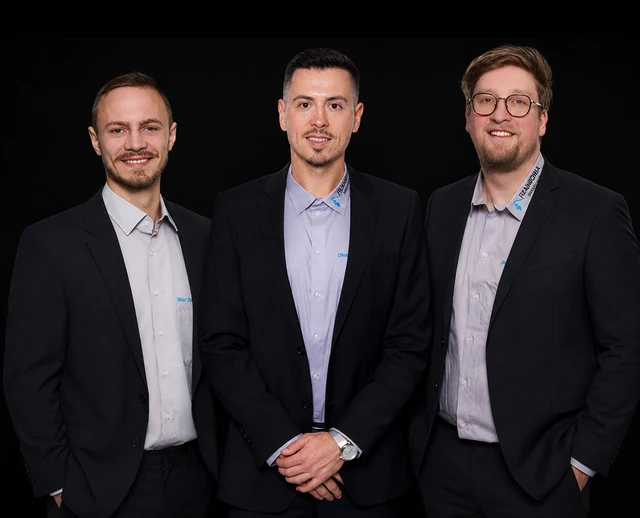
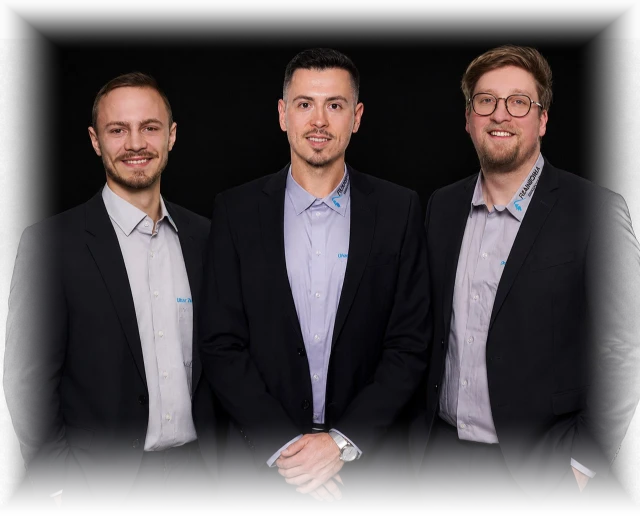
Ueber uns: Steffen freigestellt, Team-Reihe der fuenf Fuehrungskraefte, Kasten um das Hero-Foto weg
Der Kunde sah Kaesten um beide Fotos. Er hatte recht, und meine fruehere
Diagnose war falsch: ich hatte gemessen, dass die SEITENKANTEN um 0,0 Stufen
springen, und daraus geschlossen, es sei nichts zu sehen. Sichtbar ist aber
der hellere Hintergrund INNERHALB des Rechtecks — im Vorher/Nachher-Vergleich
sofort erkennbar.

STEFFEN: neues Foto aus dem Werkschutz-Shooting (ganze Figur auf WEISSEM
Grund), echt freigestellt statt Hintergrund auf #010101 normalisiert. Der
alte Weg haelt nur, solange die Sektion schwarz bleibt.
Verfahren: Randkonnektivitaet (ein blosser Schwellwert frisst das helle
Hemd), weiche Kante NUR im 2px-Saum (erster Versuch liess den Verlauf ueber
die Helligkeit laufen — 2,47 Mio Hintergrundpixel bekamen Teilalpha und
haetten als grauer Schleier gestanden), plus Matting gegen den Weisssaum.
Gegengeprueft auf MAGENTA, weil Loecher im dunklen Haar auf Schwarz
unsichtbar waeren: keine.
Der Verlauf nach unten bleibt in der GETEILTEN CSS-Regel, nicht im Bild —
zwei Rampen fuer dieselbe Aufgabe laufen auseinander.

TEAM-HERO: ein echter Freisteller ist dort nicht moeglich (Anzuege haben
dieselbe Helligkeit wie der Hintergrund, gemessen). Also loest die KANTE
sich auf statt das Motiv: seitlich und oben faellt Alpha nur dort, wo der
Pixel dunkel ist — ein aufgehellter Kragen bleibt, der Hintergrund geht.
Unten bedingungsloser Verlauf.

FUEHRUNGSKRAEFTE: fuenf Freisteller aus den eigenen Studio-Shootings der
[…]

diff --git a/pages/ueber-uns.html b/pages/ueber-uns.html
@@ -308,14 +308,20 @@
              got its own photo on 2026-08-14, so the two are now one treatment).
              Black backdrop, so the frame carries no radius/border/tint — see
              .uu-lead__photo.
-             ⚠ CORRECTION 2026-08-14: this comment used to claim the backdrop was
-             "0,0,0 … matching --color-bg exactly". The first half was right and the
-             conclusion was NOT — --color-bg is #010101, i.e. 1, so the photo sat one
-             level BELOW the page it was supposed to match, and the bottom fade
-             below ramped to a colour the photo never reached. Re-exported with the
-             backdrop normalised to #010101 literally
-             (docs/design-sources/portrait-key-backdrop.py, same pass as Jäger's).
-             Measured across the seam afterwards: page 1, photo 1, delta 0.00.
+             ⚠ 05.09.2026 — NEUES FOTO UND ECHTE TRANSPARENZ. Der Kunde sah
+             einen Kasten um dieses Bild ("da gibt es keinen Diskussionsbedarf"),
+             und er hatte recht: die alte Fassung hatte den Hintergrund nur auf
+             #010101 NORMALISIERT, also ein deckendes Rechteck in Seitenfarbe.
+             Das haelt genau so lange, wie die Sektion schwarz bleibt.
+             Jetzt ein echter Freisteller aus der Studioaufnahme auf WEISSEM Grund
+             (Werkschutz-Shooting 2023, ganze Figur) — Randkonnektivitaet, damit
+             das helle Hemd nicht mitgekeyt wird, weiche Kante nur im 2px-Saum,
+             und die Matting-Gleichung gegen den Weisssaum. Gegengeprueft auf
+             MAGENTA, weil Loecher im dunklen Haar auf Schwarz unsichtbar waeren.
+             ⚠ Der Verlauf nach unten wird NICHT ins Bild gebrannt — den macht
+             .uu-lead__photo::after in page-service.css, geteilt mit Jaegers
+             Portrait. Zwei Rampen fuer dieselbe Aufgabe laufen auseinander; ein
+             erster Versuch hatte beide und der Anzug verschwand zu frueh.
              Enlarged same day (22rem → 30rem cap); re-exported at 480/960w so
              a 2x screen at the new cap still gets a sharp source. -->
         <div class="uu-lead__photo" data-reveal>
@@ -325,6 +331,71 @@
           </picture>
         </div>
       </div>
+
+        <!-- ============ Führungsmannschaft (Kunde 05.09.2026) ============
+             "darunter alle Führungskräfte … Christoph, Alex, Brian, Daniel,
+             also alle die, die eine gültige Visitenkarte haben".
+
+             ⚠ Bewusst INNERHALB von .uu-lead und nicht als eigene Sektion:
+             zwischen Führung und Versprechen liegt ein GLOW-SEAM, der als
+             Hintergrundverlauf auf den beiden zugewandten Kanten sitzt
+             (siehe page-ueber-uns.css). Eine Sektion dazwischen würde dieses
+             Paar auseinanderreißen. Inhaltlich passt es ohnehin hierher:
+             oben steht, wer FRANKONIA führt, hier steht der Rest der Führung.
+
+             ⚠ Die fünf sind NICHT auf ihre Visitenkarten-Seiten verlinkt.
+             Die tragen robots="noindex,follow" und stehen nicht im Sitemap —
+             das sind QR-Karten, keine Unterseiten. Ob sie öffentlich verlinkt
+             werden sollen, ist eine Entscheidung des Kunden, keine Bautechnik.
+
+             Rollen wörtlich aus den Visitenkarten-Seiten übernommen.
+             ⚠ Die Überschrift ist für diesen Bau geschrieben, sie steht in
+             keinem Webtext — bitte von Chris bestätigen lassen. -->
+        <div class="uu-team">
+          <h3 class="uu-team__title">Unsere Führungskräfte</h3>
+          <ul class="uu-team__list" data-item-reveal="li">
+            <li class="uu-team__item">
+              <picture>
+                <source type="image/webp" srcset="/assets/images/uu-team-steffen-walde-280.webp 280w, /assets/images/uu-team-steffen-walde-560.webp 560w" sizes="(min-width: 1100px) 13rem, (min-width: 640px) 22vw, 40vw">
+                <img class="uu-team__foto" src="/assets/images/uu-team-steffen-walde-560.jpg" width="560" height="700" alt="Steffen Walde, Geschäftsführender Gesellschafter" loading="lazy" decoding="async">
+              </picture>
+              <p class="uu-team__name">Steffen Walde</p>
+              <p class="uu-team__role">Geschäftsführender Gesellschafter</p>
+            </li>
+            <li class="uu-team__item">
+              <picture>
+                <source type="image/webp" srcset="/assets/images/uu-team-alexander-jaeger-280.webp 280w, /assets/images/uu-team-alexander-jaeger-560.webp 560w" sizes="(min-width: 1100px) 13rem, (min-width: 640px) 22vw, 40vw">
+                <img class="uu-team__foto" src="/assets/images/uu-team-alexander-jaeger-560.jpg" width="560" height="700" alt="Alexander Jäger, Vertriebsleiter" loading="lazy" decoding="async">
+              </picture>
+              <p class="uu-team__name">Alexander Jäger</p>
+              <p class="uu-team__role">Vertriebsleiter</p>
+            </li>
+            <li class="uu-team__item">
+              <picture>
+                <source type="image/webp" srcset="/assets/images/uu-team-daniel-wettengel-280.webp 280w, /assets/images/uu-team-daniel-wettengel-560.webp 560w" sizes="(min-width: 1100px) 13rem, (min-width: 640px) 22vw, 40vw">
+                <img class="uu-team__foto" src="/assets/images/uu-team-daniel-wettengel-560.jpg" width="560" height="700" alt="Daniel Wettengel, Einsatzleiter" loading="lazy" decoding="async">
+              </picture>
+              <p class="uu-team__name">Daniel Wettengel</p>
+              <p class="uu-team__role">Einsatzleiter</p>
+            </li>
+            <li class="uu-team__item">
+              <picture>
+                <source type="image/webp" srcset="/assets/images/uu-team-bryan-van-wey-280.webp 280w, /assets/images/uu-team-bryan-van-wey-560.webp 560w" sizes="(min-width: 1100px) 13rem, (min-width: 640px) 22vw, 40vw">
+                <img class="uu-team__foto" src="/assets/images/uu-team-bryan-van-wey-560.jpg" width="560" height="700" alt="Bryan Van Wey, Einsatzleiter" loading="lazy" decoding="async">
+              </picture>
+              <p class="uu-team__name">Bryan Van Wey</p>
+              <p class="uu-team__role">Einsatzleiter</p>
+            </li>
+            <li class="uu-team__item">
+              <picture>
+                <source type="image/webp" srcset="/assets/images/uu-team-christoph-bauer-280.webp 280w, /assets/images/uu-team-christoph-bauer-560.webp 560w" sizes="(min-width: 1100px) 13rem, (min-width: 640px) 22vw, 40vw">
+                <img class="uu-team__foto" src="/assets/images/uu-team-christoph-bauer-560.jpg" width="560" height="700" alt="Christoph Bauer, Marketing- und Projektmanager" loading="lazy" decoding="async">
+              </picture>
+              <p class="uu-team__name">Christoph Bauer</p>
+              <p class="uu-team__role">Marketing- und Projektmanager</p>
+            </li>
+          </ul>
+        </div>
     </section>
 
     <!-- Führung (black) -> Versprechen (black): a SOFT GLOW SEAM, and there is no

diff --git a/css/page-ueber-uns.css b/css/page-ueber-uns.css
@@ -976,3 +976,101 @@
   margin-top: var(--space-6);
   color: var(--color-text-muted);
 }
+
+/* ==========================================================================
+   FÜHRUNGSMANNSCHAFT — die Reihe der fünf (Kunde 05.09.2026)
+   --------------------------------------------------------------------------
+   Fünf Freisteller auf dem Seitenschwarz, jeder unten weglaufend. Es gibt
+   hier bewusst KEINE Karte, keinen Rahmen und keinen Schatten: die Fotos sind
+   freigestellt, also wäre jede Kante genau der Kasten, den der Kunde an
+   dieser Seite bemängelt hat.
+
+   ⚠ FLEX MIT WRAP, kein Grid — und das ist der Grund: fünf Elemente gehen in
+   keiner Spaltenzahl auf. Drei Spalten lassen zwei Waisen, zwei lassen eine.
+   Ein umbrechendes, zentriertes Flex-Layout stellt die Reste von selbst
+   mittig, ohne eine Sonderregel für das letzte Element.
+   ========================================================================== */
+.uu-team {
+  margin-top: var(--space-9);
+}
+
+/* Kopf zentriert über linksbündig gesetzten Namen — dieselbe Aufteilung, die
+   der Rest der Seite schon benutzt. */
+.uu-team__title {
+  text-align: center;
+  font-size: var(--font-size-lg);
+  font-weight: 500;
+  letter-spacing: normal;
+  margin: 0 0 var(--space-7);
+  color: var(--color-text);
+}
+
+.uu-team__list {
+  list-style: none;
+  margin: 0;
+  padding: 0;
+  display: flex;
+  flex-wrap: wrap;
+  justify-content: center;
+  /* ⚠ flex-START, nicht flex-end. Mit flex-end richtet Flex die KAESTEN an
+     ihrer Unterkante aus — und weil zwei Rollen zweizeilig sind (Steffen,
+     Christoph), rutschten deren Namen um eine Zeile nach oben und die Reihe
+     stand nicht mehr auf einer Linie. Am Anfang ausgerichtet und mit gleich
+     hohen Fotos stehen alle Namen automatisch auf derselben Hoehe. */
+  align-items: flex-start;
+  gap: var(--space-6) var(--space-5);
+}
+
+.uu-team__item {
+  flex: 0 1 clamp(8.5rem, 17vw, 13rem);
+  max-width: 13rem;
+  text-align: center;
+}
+
+/* aspect-ratio hält den Platz, bevor das Bild da ist — sonst springt die
+   ganze Reihe beim Nachladen. 4:5 ist das Maß der Exporte (560x700). */
+.uu-team__foto {
+  display: block;
+  width: 100%;
+  height: auto;
+  aspect-ratio: 4 / 5;
+  object-fit: contain;
+  /* ⚠ KEIN background-color. Das Bild ist freigestellt; eine Füllung wäre
+     wieder ein sichtbares Rechteck. */
+}
+
+/* ⚠ KEIN negativer Abstand. Erster Versuch zog den Namen um 1,25rem hoch,
+   weil der Freisteller unten ausläuft und darunter Schwarz steht — im Bild
+   lag der Name dann aber AUF dem Anzug. Der Verlauf beginnt bei 70 % der
+   Bildhoehe, also sind die letzten 30 % noch sichtbarer Koerper, nicht Luft. */
+.uu-team__name {
+  margin: var(--space-2) 0 0;
+  font-size: var(--font-size-base);
+  font-weight: 500;
+  color: var(--color-text);
+}
+
+.uu-team__role {
+  margin: 0.125rem 0 0;
+  font-size: var(--font-size-sm);
+  color: var(--color-text-muted);
+  /* Deutsche Komposita ("Geschäftsführender") brächen unter dem hyphens:auto
+     von base.css mitten im Wort. Das sind Rollenbezeichnungen, keine Prosa. */
+  -webkit-hyphens: none;
+  hyphens: none;
+  text-wrap: balance;
+}
+
+@media (max-width: 639.98px) {
+  .uu-team {
+    margin-top: var(--space-8);
+  }
+  .uu-team__list {
+    gap: var(--space-5) var(--space-4);
+  }
+  /* Zwei je Zeile auf dem Telefon: bei fünf nebeneinander wäre ein Kopf
+     ~55px breit und niemand zu erkennen. */
+  .uu-team__item {
+    flex: 0 1 calc(50% - var(--space-4));
+  }
+}
